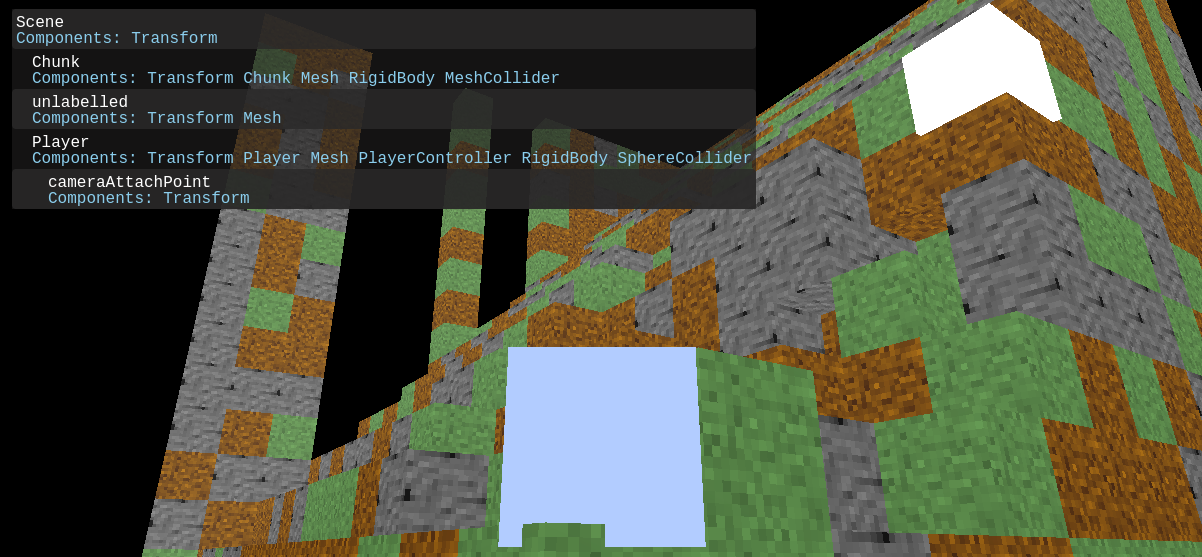
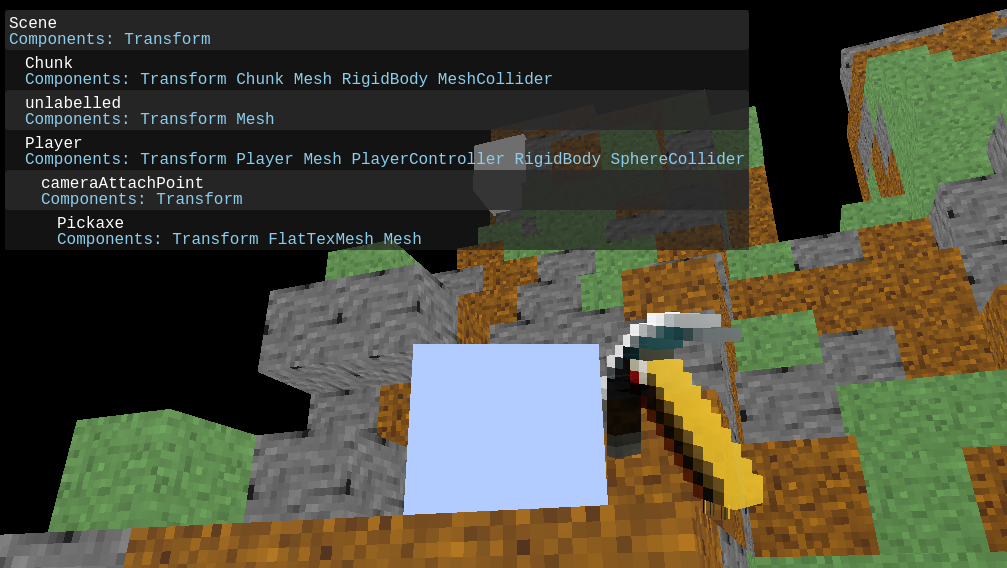
FlatTexMesh now generates UVs properly, MeshBuilder accepts UVs for quad now

diff --git a/src/components/chunk.ts b/src/components/chunk.ts
@@ -1,5 +1,6 @@
 
 import { Program, TextureLoader, Vec2, Vec3 } from "ogl-typescript";
+import { UVQuad } from "../utils/atlas.js";
 import { Globals } from "../utils/global.js";
 import { MeshBuilder, MeshBuilderCubeSides } from "../utils/meshbuilder.js";
 import { Block } from "../voxel/block.js";
@@ -151,12 +152,13 @@ export class Chunk extends WorldComponent {
     return true;
   }
   generate() {
+    let types = Object.keys(Globals.atlas.type).length;
     for (let x = 0; x < Chunk.BLOCK_SIDE_LENGTH; x++) {
       for (let y = 0; y < Chunk.BLOCK_SIDE_LENGTH; y++) {
         for (let z = 0; z < Chunk.BLOCK_SIDE_LENGTH; z++) {
           let i = Chunk.positionToIndex(x, y, z);
           if (x >= y) {
-            this.data[i] = 1;
+            this.data[i] = Math.floor(Math.random() * types)+1;
           } else {
             this.data[i] = 0;
           }
@@ -168,11 +170,26 @@ export class Chunk extends WorldComponent {
     let mb = Chunk.getMeshBuilder();
     mb.clear();
 
+    // let blockId = Math.floor(Math.random() * 3)+1;
+    let uvquad: UVQuad;
+    
+    let umin: number;
+    let umax: number;
+    let vmin: number;
+    let vmax: number;
+    
+    
     for (let x = 0; x < Chunk.BLOCK_SIDE_LENGTH; x++) {
       for (let y = 0; y < Chunk.BLOCK_SIDE_LENGTH; y++) {
         for (let z = 0; z < Chunk.BLOCK_SIDE_LENGTH; z++) {
           this.getBlockData(this.renderBlock, x, y, z);
           if (this.renderBlock.type === 0) continue;
+          uvquad = Globals.atlas.type[this.renderBlock.type][0];
+          umin = uvquad.x;
+          umax = umin + uvquad.w;
+          vmin = 1 - uvquad.y;
+          vmax = vmin - uvquad.h;
+                
           this.renderBlockSides.back_ZN = true;
           this.renderBlockSides.front_Z = true;
           this.renderBlockSides.left_XN = true;
@@ -188,7 +205,22 @@ export class Chunk extends WorldComponent {
           if (this.getBlockData(this.neighborBlock, x - 1, y, z)) this.renderBlockSides.left_XN = this.neighborBlock.revealsNeighbors;
           if (this.getBlockData(this.neighborBlock, x + 1, y, z)) this.renderBlockSides.right_X = this.neighborBlock.revealsNeighbors;
 
-          mb.cube(x, y, z, 1, 1, 1, this.renderBlockSides);
+          mb.cube(
+            x, y, z, 
+            1, 1, 1, 
+            this.renderBlockSides,
+            umin,
+            vmin,
+
+            umax,
+            vmin,
+
+            umin,
+            vmax,
+
+            umax,
+            vmax,
+          );
 
         }
       }

diff --git a/utils/meshbuilder.js b/utils/meshbuilder.js
@@ -1,4 +1,3 @@
-import { Globals } from "./global.js";
 export const MeshBuilderCubeSidesALL = {
   /** should top quad be created (+Y)*/
   top_Y: true,
@@ -86,24 +85,28 @@ export class MeshBuilder {
     this.quad(a.x, a.y, a.z, b.x, b.y, b.z, c.x, c.y, c.z, d.x, d.y, d.z, auv === null || auv === void 0 ? void 0 : auv.x, auv === null || auv === void 0 ? void 0 : auv.y, buv === null || buv === void 0 ? void 0 : buv.x, buv === null || buv === void 0 ? void 0 : buv.y, cuv === null || cuv === void 0 ? void 0 : cuv.x, cuv === null || cuv === void 0 ? void 0 : cuv.y, duv === null || duv === void 0 ? void 0 : duv.x, duv === null || duv === void 0 ? void 0 : duv.y, an === null || an === void 0 ? void 0 : an.x, an === null || an === void 0 ? void 0 : an.y, an === null || an === void 0 ? void 0 : an.z, bn === null || bn === void 0 ? void 0 : bn.x, bn === null || bn === void 0 ? void 0 : bn.y, bn === null || bn === void 0 ? void 0 : bn.z, cn === null || cn === void 0 ? void 0 : cn.x, cn === null || cn === void 0 ? void 0 : cn.y, cn === null || cn === void 0 ? void 0 : cn.z, dn === null || dn === void 0 ? void 0 : dn.x, dn === null || dn === void 0 ? void 0 : dn.y, dn === null || dn === void 0 ? void 0 : dn.z);
   }
 
-  cube(minx, miny, minz, w, h, d, sides = MeshBuilderCubeSidesALL) {
+  cube(minx, miny, minz, w, h, d, sides = MeshBuilderCubeSidesALL, au, av, bu, bv, cu, cv, du, dv) {
     let maxx = minx + w;
     let maxy = miny + h;
-    let maxz = minz + d;
-    let blockId = Math.floor(Math.random() * 3) + 1;
-    let uvquad = Globals.atlas.type[blockId][0];
-    let umin = uvquad.x;
-    let umax = umin + uvquad.w;
-    let vmin = 1 - uvquad.y;
-    let vmax = vmin - uvquad.h;
-    let au = umin;
-    let av = vmin;
-    let bu = umax;
-    let bv = vmin;
-    let cu = umin;
-    let cv = vmax;
-    let du = umax;
-    let dv = vmax;
+    let maxz = minz + d; // let blockId = Math.floor(Math.random() * 3)+1;
+    // let uvquad = Globals.atlas.type[blockId][0];
+    // let umin = uvquad.x;
+    // let umax = umin + uvquad.w;
+    // let vmin = 1 - uvquad.y;
+    // let vmax = vmin - uvquad.h;
+
+    let umin = 0;
+    let umax = 1;
+    let vmin = 1;
+    let vmax = 1;
+    if (!au) au = umin;
+    if (!av) av = vmin;
+    if (!bu) bu = umax;
+    if (!bv) bv = vmin;
+    if (!cu) cu = umin;
+    if (!cv) cv = vmax;
+    if (!du) du = umax;
+    if (!dv) dv = vmax;
 
     if (sides.top_Y) {
       //top (+Y) (use maxy)

diff --git a/components/chunk.js b/components/chunk.js
@@ -138,13 +138,15 @@ export class Chunk extends WorldComponent {
   }
 
   generate() {
+    let types = Object.keys(Globals.atlas.type).length;
+
     for (let x = 0; x < Chunk.BLOCK_SIDE_LENGTH; x++) {
       for (let y = 0; y < Chunk.BLOCK_SIDE_LENGTH; y++) {
         for (let z = 0; z < Chunk.BLOCK_SIDE_LENGTH; z++) {
           let i = Chunk.positionToIndex(x, y, z);
 
           if (x >= y) {
-            this.data[i] = 1;
+            this.data[i] = Math.floor(Math.random() * types) + 1;
           } else {
             this.data[i] = 0;
           }
@@ -155,13 +157,24 @@ export class Chunk extends WorldComponent {
 
   rebuild() {
     let mb = Chunk.getMeshBuilder();
-    mb.clear();
+    mb.clear(); // let blockId = Math.floor(Math.random() * 3)+1;
+
+    let uvquad;
+    let umin;
+    let umax;
+    let vmin;
+    let vmax;
 
     for (let x = 0; x < Chunk.BLOCK_SIDE_LENGTH; x++) {
       for (let y = 0; y < Chunk.BLOCK_SIDE_LENGTH; y++) {
         for (let z = 0; z < Chunk.BLOCK_SIDE_LENGTH; z++) {
           this.getBlockData(this.renderBlock, x, y, z);
           if (this.renderBlock.type === 0) continue;
+          uvquad = Globals.atlas.type[this.renderBlock.type][0];
+          umin = uvquad.x;
+          umax = umin + uvquad.w;
+          vmin = 1 - uvquad.y;
+          vmax = vmin - uvquad.h;
           this.renderBlockSides.back_ZN = true;
           this.renderBlockSides.front_Z = true;
           this.renderBlockSides.left_XN = true;
@@ -175,7 +188,7 @@ export class Chunk extends WorldComponent {
           if (this.getBlockData(this.neighborBlock, x, y, z + 1)) this.renderBlockSides.front_Z = this.neighborBlock.revealsNeighbors;
           if (this.getBlockData(this.neighborBlock, x - 1, y, z)) this.renderBlockSides.left_XN = this.neighborBlock.revealsNeighbors;
           if (this.getBlockData(this.neighborBlock, x + 1, y, z)) this.renderBlockSides.right_X = this.neighborBlock.revealsNeighbors;
-          mb.cube(x, y, z, 1, 1, 1, this.renderBlockSides);
+          mb.cube(x, y, z, 1, 1, 1, this.renderBlockSides, umin, vmin, umax, vmin, umin, vmax, umax, vmax);
         }
       }
     }

diff --git a/components/flattexmesh.js b/components/flattexmesh.js
@@ -71,13 +71,25 @@ export class FlatTexMesh extends WorldComponent {
     if (!this.imgdata) return;
     if (!FlatTexMesh.meshBuilder) FlatTexMesh.meshBuilder = new MeshBuilder();
     FlatTexMesh.meshBuilder.clear();
+    let ix = 1 / this.imgdata.width;
+    let iy = 1 / this.imgdata.height;
+    let umin;
+    let umax;
+    let vmin;
+    let vmax;
 
     for (let x = 0; x < this.imgdata.width; x++) {
       for (let y = 0; y < this.imgdata.height; y++) {
         this.rgbaPick(this.current, x, y);
         if (this.rgbaIsTransparent(this.current)) continue;
         this.neighbors(this.sides, x, y);
-        FlatTexMesh.meshBuilder.cube(x / this.imgdata.width * this.size.x, y / this.imgdata.height * this.size.y, 0, 1 / this.imgdata.width * this.size.x, 1 / this.imgdata.height * this.size.y, this.size.z, this.sides);
+        let nx = x / this.imgdata.width;
+        let ny = y / this.imgdata.height;
+        umin = nx;
+        umax = umin + ix;
+        vmin = 1 - ny;
+        vmax = vmin - iy;
+        FlatTexMesh.meshBuilder.cube(nx * this.size.x, ny * this.size.y, 0, ix * this.size.x, iy * this.size.y, this.size.z, this.sides, umin, vmin, umax, vmin, umin, vmax, umax, vmax);
       }
     }
 
@@ -138,8 +150,7 @@ export class FlatTexMesh extends WorldComponent {
           uniforms: {
             tMap: {
               value: _this.texture
-            } // tMap: { value: blocksTexture },
-
+            }
           }
         });
         if (_this.mesh) _this.rebuild();

diff --git a/src/utils/meshbuilder.ts b/src/utils/meshbuilder.ts
@@ -208,32 +208,41 @@ export class MeshBuilder {
   cube(
     minx: number, miny: number, minz: number,
     w: number, h: number, d: number,
-    sides: MeshBuilderCubeSides = MeshBuilderCubeSidesALL
+    sides: MeshBuilderCubeSides = MeshBuilderCubeSidesALL,
+    au?: number, av?: number,
+    bu?: number, bv?: number,
+    cu?: number, cv?: number,
+    du?: number, dv?: number
   ): this {
 
     let maxx = minx + w;
     let maxy = miny + h;
     let maxz = minz + d;
 
-    let blockId = Math.floor(Math.random() * 3)+1;
-    let uvquad = Globals.atlas.type[blockId][0];
+    // let blockId = Math.floor(Math.random() * 3)+1;
+    // let uvquad = Globals.atlas.type[blockId][0];
 
-    let umin = uvquad.x;
-    let umax = umin + uvquad.w;
-    let vmin = 1 - uvquad.y;
-    let vmax = vmin - uvquad.h;
+    // let umin = uvquad.x;
+    // let umax = umin + uvquad.w;
+    // let vmin = 1 - uvquad.y;
+    // let vmax = vmin - uvquad.h;
 
-    let au = umin;
-    let av = vmin;
+    let umin = 0;
+    let umax = 1;
+    let vmin = 1;
+    let vmax = 1;
 
-    let bu = umax;
-    let bv = vmin;
+    if (!au)au = umin;
+    if (!av)av = vmin;
 
-    let cu = umin;
-    let cv = vmax;
+    if (!bu)bu = umax;
+    if (!bv)bv = vmin;
 
-    let du = umax;
-    let dv = vmax;
+    if (!cu)cu = umin;
+    if (!cv)cv = vmax;
+
+    if (!du)du = umax;
+    if (!dv)dv = vmax;
 
     if (sides.top_Y) {
       //top (+Y) (use maxy)

diff --git a/src/components/flattexmesh.ts b/src/components/flattexmesh.ts
@@ -86,22 +86,50 @@ export class FlatTexMesh extends WorldComponent {
     if (!FlatTexMesh.meshBuilder) FlatTexMesh.meshBuilder = new MeshBuilder();
     FlatTexMesh.meshBuilder.clear();
   
+    let ix = 1/this.imgdata.width;
+    let iy = 1/this.imgdata.height;
+
+    let umin: number;
+    let umax: number;
+    let vmin: number;
+    let vmax: number;
+
     for (let x=0; x<this.imgdata.width; x++) {
       for (let y=0; y<this.imgdata.height; y++) {
         this.rgbaPick(this.current, x, y);
 
         if (this.rgbaIsTransparent(this.current)) continue;
         this.neighbors(this.sides, x, y);
+        
+        let nx = x/this.imgdata.width;
+        let ny = y/this.imgdata.height;
+
+        umin = nx;
+        umax = umin + ix;
+        vmin = 1 - ny;
+        vmax = vmin - iy;
 
         FlatTexMesh.meshBuilder.cube(
-          x/this.imgdata.width * this.size.x,
-          y/this.imgdata.height * this.size.y,
+          nx * this.size.x,
+          ny * this.size.y,
           0,
   
-          1/this.imgdata.width * this.size.x,
-          1/this.imgdata.height * this.size.y,
+          ix * this.size.x,
+          iy * this.size.y,
           this.size.z,
-          this.sides
+          this.sides,
+
+          umin,
+          vmin,
+
+          umax,
+          vmin,
+
+          umin,
+          vmax,
+
+          umax,
+          vmax,
         );
 
       }
